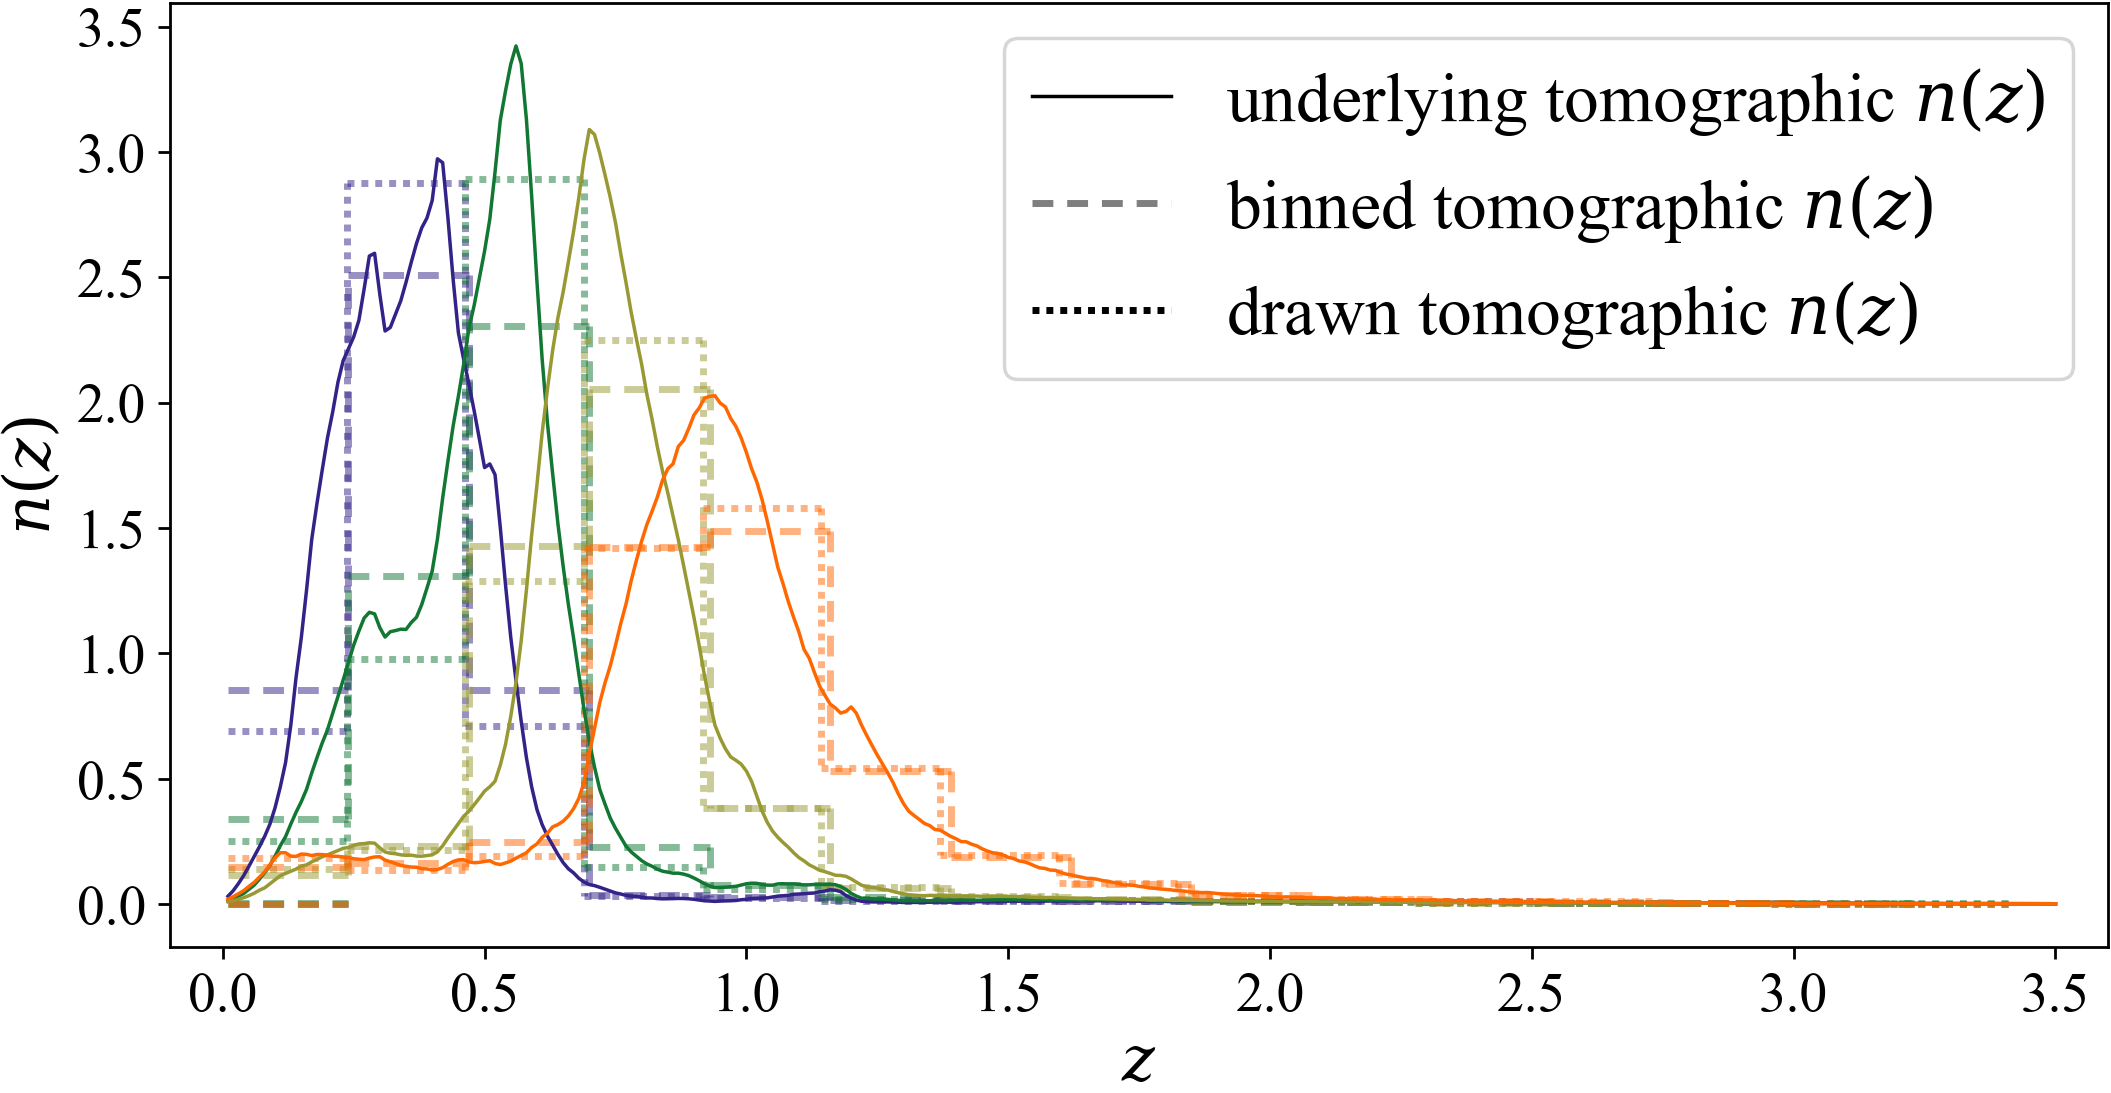
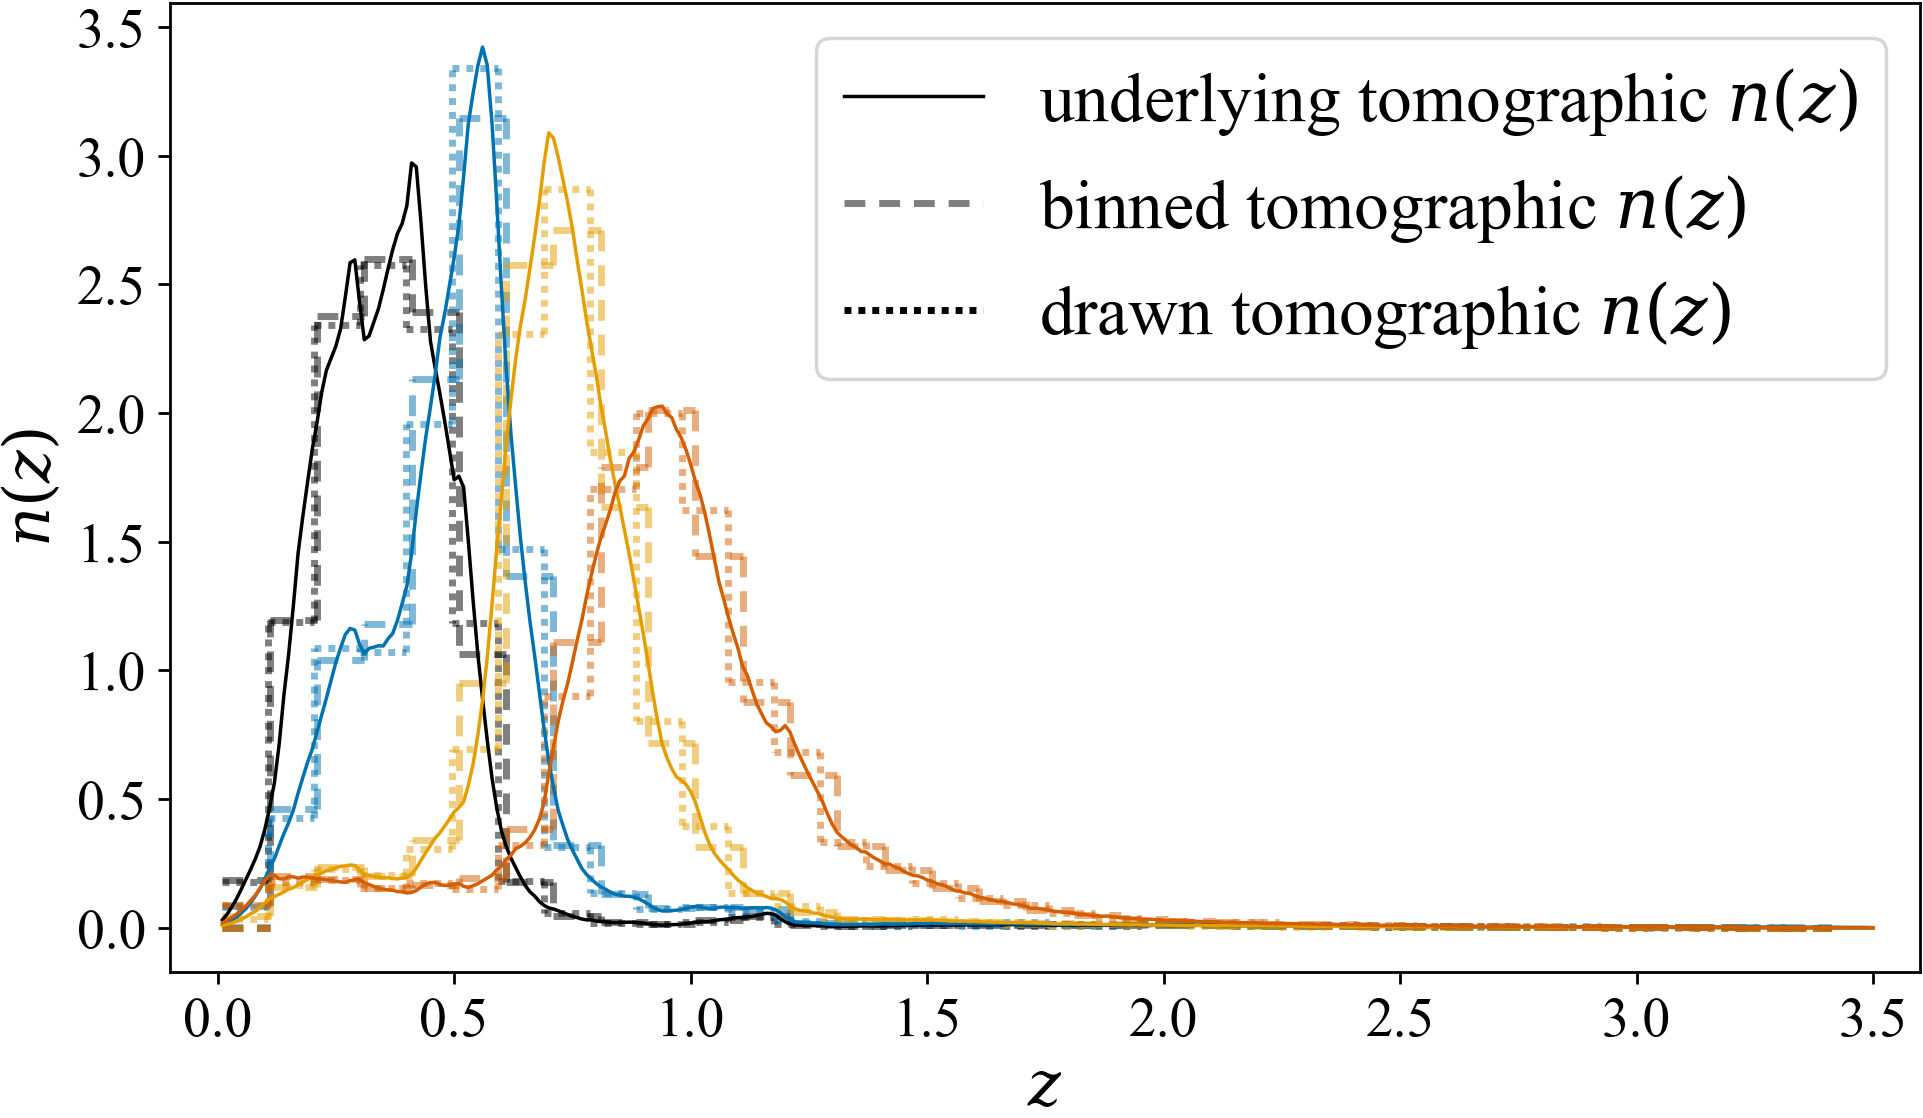
describing cosmology investigation procedure

diff --git a/chapters/chippr.tex b/chapters/chippr.tex
@@ -1,7 +1,6 @@
 \renewcommand{\chapid}{chippr}
 
 % Chapter specific commands:
-\newcommand{\Chippr}{\textit{CHIPPR}}
 \newcommand{\cosmolike}{\repo{CosmoLike}}
 \newcommand{\emcee}{\repo{emcee}}
 \newcommand{\boss}{\project{BOSS}}
@@ -139,7 +138,7 @@ The likelihoods can be thought of as cuts through the joint probability space of
 		\caption{
 			\aim{Cite Jain+05, WebPlotDigitizer for inspiring this figure.}
 			A generic probability space of redshift (x-axis) and data (y-axis), projected into a single dimension, with vertical cuts and marginals (cyan) indicating the construction of likelihoods and horizontal cuts and marginals (magenta) indicating the construction of posteriors.
-			\aim{I need to fix the hideous font and possibly choose better colors.}
+			\aim{Choose better colors?}
 		}
 		\figlabel{fig:pedagogical_scatter}
 	\end{center}
@@ -556,81 +555,6 @@ An example of such samples from the prior are shown in \Fig{fig:prior}.
 
 The sampler is initialized with $W=100$ walkers each with a value chosen from a Gaussian distribution of identity covariance around a sample from the hyperprior distribution.  
 
-%\subsection{Forward model implementation}
-%\sectlabel{sec:null}
-%
-%\aim{Commented out but may add back in later.}
-
-%The following outlines the ``fiducial'' test case.  
-%We begin by choosing a physically-motivated $p^{*}(z)$ defining the general shape of $N(z)$ over the specified redshift range $[z_{min},z_{max}]$.  
-%Here we shall set it to a weighted sum of truncated Gaussians chosen to impose recognizably recoverable features on the true $N(z)$, shown in the top panel of \Fig{fig:physpz}.  
-%In the test case of \Sect{sec:fake} it shall be set to a narrow Gaussian shown in the bottom panel of \Fig{fig:physpz}.  
-%The true survey size $J$ is a Poisson random variable distributed about a target survey size of $J'$.
-%
-%\begin{figure}
-%	\includegraphics[width=0.5\textwidth]{figures/chippr/sig2_physPz.pdf}\\
-%	\includegraphics[width=0.5\textwidth]{figures/chippr/delt_physPz.pdf}
-%	\caption{The physically-motivated true redshift distribution used in the mock data tests is chosen to have recognizable features of different scales so the quality of recovery can be easily determined.  
-%		The top panel shows a physically motivated true $N(z)$ for the fiducial test, and the bottom panel shows a toy model of a highly featured true $N(z)$.}
-%	\figlabel{fig:physpz}
-%\end{figure}
-%
-%The catalog of $J$ photo-$z$ likelihoods $p(\vec{d}_{j}|z_{j})$ is chosen to be a set of Gaussian distributions, truncated to the redshift range over which $N(z)$ is defined, because it is the simplest extension of the standard redshift point estimates with reported error bars.  
-%To obtain the standard deviations $\sigma_{j}\sim\mathcal{N}(g\bar{\Delta},(g\bar{\Delta})^{2})$ associated with each surveyed galaxy $j$, we first sample a Gaussian 
-%distribution with mean and standard deviation equal to $g\bar{\Delta}$ for some factor $g$ (by default set to 2), truncated to enforce positive standard deviations.  
-%Each Gaussian is centered at an "observed" redshift $z'_{j}\sim\mathcal{N}(z^{*}_{j},\sigma_{j})$ separated from the true redshift $z^{*}_{j}$ by a Gaussian random variable $\epsilon_{j}\sim\mathcal{N}(0,\sigma^{2}_{j})$ selected from a distribution of mean of 0 and true standard deviation $\sigma_{j}$.   
-%This prescription may be understood as an exposition of the generative model of 
-%\begin{equation}
-%\eqlabel{eq:genmod}
-%z'_{j} = z^{*}_{j}+\epsilon_{j}
-%\end{equation}
-%for the physically-motivated process originating the data, which states that the MLE $z'_{j}$ of the redshift is equal to the true redshift $z^{*}_{j}$ plus a Gaussian random variable $\epsilon_{j}$.  
-%\Fig{fig:nullpzsgen} illustrates this procedure by showing the probability distribution $p(z'_{j}|z^{*}_{j})$ for a random galaxy $j$.
-%
-%\begin{figure}
-%	\includegraphics[width=0.5\textwidth]{figures/chippr/sig2_zobsvztru.pdf}
-%	\caption{Top panel: This plot depicts $p(z'_{j}|z^{*}_{j})$ for a randomly chosen galaxy $j$ with areas of high probability in darker grayscale shades.  
-%		The colored dots represent coordinates at which the function is evaluated to produce the horizontal slices shown in the bottom panel.  
-%		Bottom panel: In colors are plotted several examples of individual photo-$z$ posteriors in the fiducial case with their MLE redshifts (dashed lines) and true redshifts (solid lines); these represent horizontal slices through the top panel.}
-%	\figlabel{fig:nullpzsgen}
-%\end{figure}
-%
-%By default we choose a flat distribution as the interim prior, but others will be tested.  
-%(Such a comparison has been executed before by \citet{Viironen2015}.)
-%
-%To obtain the $J$ desired interim photo-$z$ posteriors $p(z_{j}|\vec{d}_{j})$ from the photo-$z$ likelihoods $p(\vec{d}_{j}|z_{j})$, we simply apply Bayes' rule as in 
-%\begin{equation}
-%\eqlabel{eq:likpost}
-%p(z_{j}|\vec{d}_{j}) \propto p(\vec{d}_{j}|z_{j})\ p(z_{j}|\vec{\theta}^{*}),
-%\end{equation}
-%A random sampling of such interim redshift posteriors is shown in \Fig{fig:nullpzs}.  
-%
-%\begin{figure}
-%	\includegraphics[width=0.5\textwidth]{figures/chippr/sig2_samplepzs.pdf}
-%	\caption{In colors are plotted several examples of individual photo-$z$ posteriors in the fiducial case with their MLE redshifts (dashed lines) and true redshifts (solid lines).}
-%	\figlabel{fig:nullpzs}
-%\end{figure}
-
-%\Fig{fig:null-samp} shows a selection of random samples from the posterior distribution of \Eq{eq:final} for the fiducial setup of \Sect{sec:mock}.  
-%\Fig{fig:null-comp} compares the mean of the sample values to alternative estimators as well as the truth.  
-%In the fiducial case, hierarchical inference preserves features in the redshift distribution function, whereas stacking tends to smear it out.  
-%
-%\begin{figure}
-%	\includegraphics[width=0.5\textwidth]{figures/chippr/null_samps.pdf}
-%	\caption{This test was conducted with a flat interim prior (gray line) and produced a mean of samples (thick, black line) that accurately reproduces the truth.  
-%		It can be seen that the samples (colored lines) are an excellent estimator of the true $N(z)$ (thin, black line) with the true values falling within the error bars ($1\sigma$ in dark gray, $2\sigma$ in light gray).}
-%	\label{fig:null-samp}
-%\end{figure}
-%
-%\begin{figure}
-%	\includegraphics[width=0.5\textwidth]{figures/chippr/null_comps.pdf}
-%	\caption{The mean of the samples (thick, solid line) and marginalized MLE (thick, dotted line) are the best estimators of the true distribution (thin, solid line), and the error bars ($1\sigma$ in dark gray, $2\sigma$ in light gray) appear to be accurate.  
-%		Stacking (thick, dashed line) overestimates $N(z)$ at the tails and underestimates $N(z)$ at the peaks.  
-%		The two point estimators considered here, marginalized MAP (thin, dashed line) and marginalized expected value (thin, dotted line) fall between these two 
-%		extremes.}
-%	\figlabel{fig:null-comp}
-%\end{figure}
-
 %\Sect{sec:fake-data} considers a delta function true redshift distribution, but the other sections consider only this physically motivated true \nz.
 %\aim{Discuss why it perhaps shouldn't be considered physically motivated -- might not have decided that's what the real thing looks like if we hadn't been stacking all along}
 
@@ -740,8 +664,8 @@ The \Chippr\ \mmle, however, appears unbiased and withstands these effects.
 	\includegraphics[width=0.5\textwidth]{figures/chippr/thesis_eout_log_estimators.png}
 	\includegraphics[width=0.5\textwidth]{figures/chippr/thesis_rout_log_estimators.png}
 	\caption{
-		The results of \Chippr\ (optimization in dark blue) and the alternative approaches (the stacked estimator in red, the histogram of modes in yellow) on \pzpdf s with catastrophic outliers like those seen in template-fitting \pzpdf\ codes (left) and machine learning \pzpdf\ codes (right) to the \lsst\ requirements, with the true redshift density (black curve) and implicit prior (gray curve).
-		\aim{Run the sampler on this for consistency.}
+		The results of \Chippr\ (samples in light blue and optimization in dark blue) and the alternative approaches (the stacked estimator in red, the histogram of modes in yellow) on \pzpdf s with catastrophic outliers like those seen in template-fitting \pzpdf\ codes (left) and machine learning \pzpdf\ codes (right) to the \lsst\ requirements, with the true redshift density (black curve) and implicit prior (gray curve).
+		Though the histogram of modes is most sensitive to a catastrophic outlier population, the stacked estimator also overestimates \nz\ under (machine learning-like outliers) and beyond (template fitting-like outliers).
 	}
 	\figlabel{fig:nonuniform-outliers-results}
 \end{figure}
@@ -791,9 +715,8 @@ The alternatives, however, are biased by the implicit prior except where it is f
 	\includegraphics[width=0.5\textwidth]{figures/chippr/results_trpr.png}
 	\includegraphics[width=0.5\textwidth]{figures/chippr/results_tmpr.png}
 	\caption{
-		The results of \Chippr\ (optimization in dark blue) and the alternative approaches (the stacked estimator in red and the histogram of modes in yellow) on \pzpdf s with an implicit prior like that of machine learning \pzpdf\ approaches (left) and an implicit prior like that of template-fitting \pzpdf\ codes (right), with the true redshift density (black curve) and implicit prior (gray curve).
+		The results of \Chippr\ (samples in light blue and optimization in dark blue) and the alternative approaches (the stacked estimator in red and the histogram of modes in yellow) on \pzpdf s with an implicit prior like that of machine learning \pzpdf\ approaches (left) and an implicit prior like that of template-fitting \pzpdf\ codes (right), with the true redshift density (black curve) and implicit prior (gray curve).
 		\Chippr\ is robust to a nontrivial implicit prior, but the alternatives are biased toward the implicit prior.
-		\aim{Run the sampler on this for consistency.}
 	}
 	\figlabel{fig:results-priors}
 \end{figure}
@@ -835,23 +758,23 @@ Using 35 evenly spaced tomographic bins $0.0101 < z < 3.4101$,
 	\end{center}
 \end{figure*}
 
-It is of interest to explore the impact of incorrectly estimated \nz\ on the inference of the cosmological parameters \textemdash how wrong will we be in our understanding of the universe if we don't perform a valid inference?
-To answer this question, I considered a set of tomographically binned \nz\ and cosmological parameter covariance matrices used for \desc\ forecasting.
-First, I binned them down to a piecewise constant parameterization with a manageable $15$ parameters for \chippr's sampling capabilities.
+It is of interest to explore the impact of incorrectly estimated \nz\ on the inference of the cosmological parameters to answer the question of how wrong we will be in our understanding of the universe if we don't perform a valid inference.
+To find an answer, I considered a set of tomographically binned \nz\ and cosmological parameter covariance matrices used for \desc\ forecasting, for which the true \nz\ in each pre-defined bin is already provided in the form of an evaluation of a function on a fine grid of $350$ redshifts $0.0101 < z < 3.5001$.
+First, I binned them down to a piecewise constant parameterization with a manageable $35$ parameters for \chippr's sampling capabilities.
 Next, I drew $10^{4}$ true redshifts from the binned true \nz\ for each tomographic bin.
 The original, binned, and drawn \nz\ are shown in \Fig{fig:tomobins}
 
 \begin{figure*}
 	\begin{center}
 		\includegraphics[width=0.99\textwidth]{figures/chippr/cosmolike_inputs.png}
-		\caption{The \lsst-like tomographic binning and true redshift distribution.}
+		\caption{The \lsst-like tomographic binning and true redshift distribution, where the truth (solid) is a PDF evaluated on a fine grid of $350$ redshifts $0.0101 < z < 3.5001$, and the binned (dashed) and drawn (dotted) \nz\ are piecewise constant functions evaluated in $35$ evenly spaced bins.
+		}
 		\figlabel{fig:tomobins}
 	\end{center}
 \end{figure*}
 
 Using the \lsst\ \pz\ requirements given in \Sect{sec:lsstdemo}, I emulated \pzpdf s corresponding to the $10^{4}$ true redshifts drawn from the true \nz\ in each bin using the procedure of \Fig{fig:flowchart}.
-I divided the galaxies into four tomographic bins using their true redshifts, as per the standard forecasting procedure.
-I then ran \chippr\ as well as two other \nz\ estimation methods on the \pzpdf\ catalog for each tomographic bin.
+I then ran \chippr\ as well as the two other \nz\ estimation methods on the \pzpdf\ catalog for each tomographic bin.
 The estimates are given in \Fig{fig:per-bin-ests}.
 One can see that the excessive breadth of the stacked estimator and the histogram of the modes of the \pzpdf s.
 
